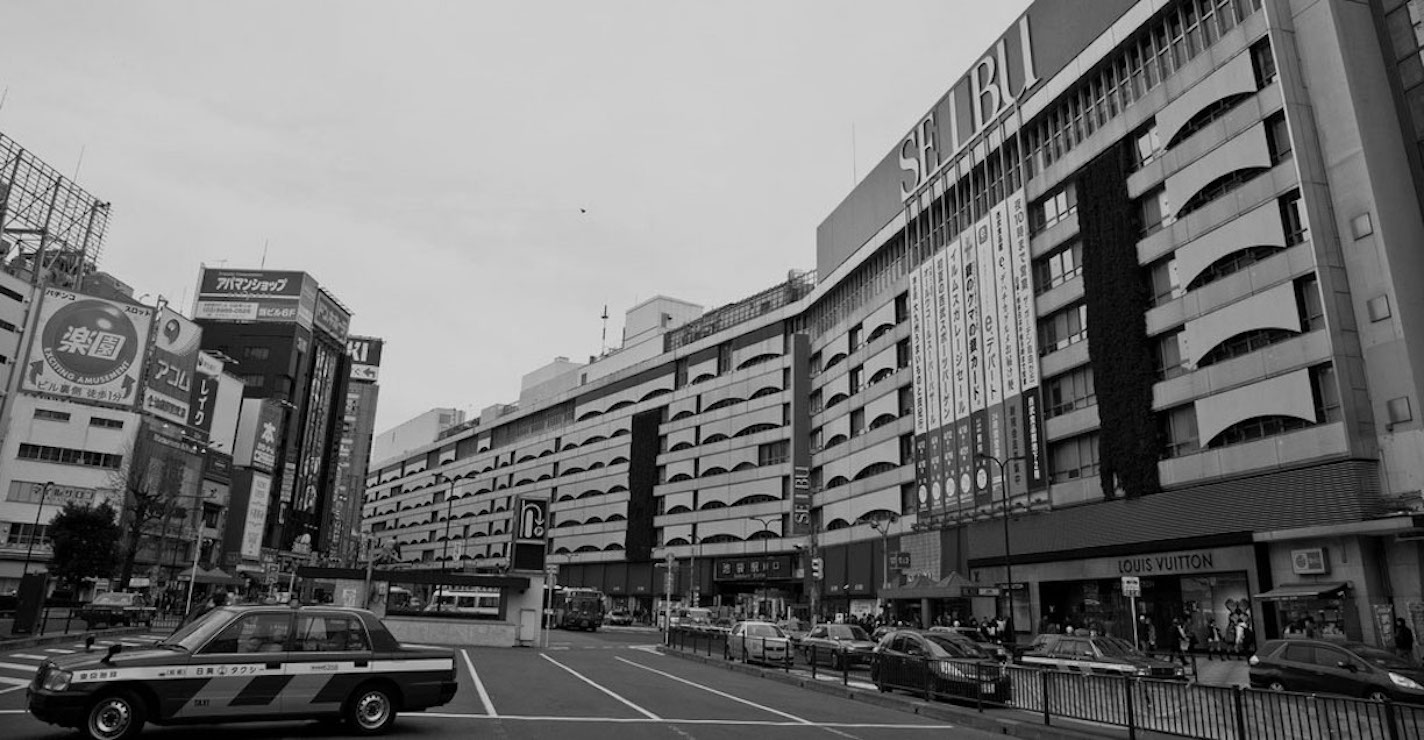
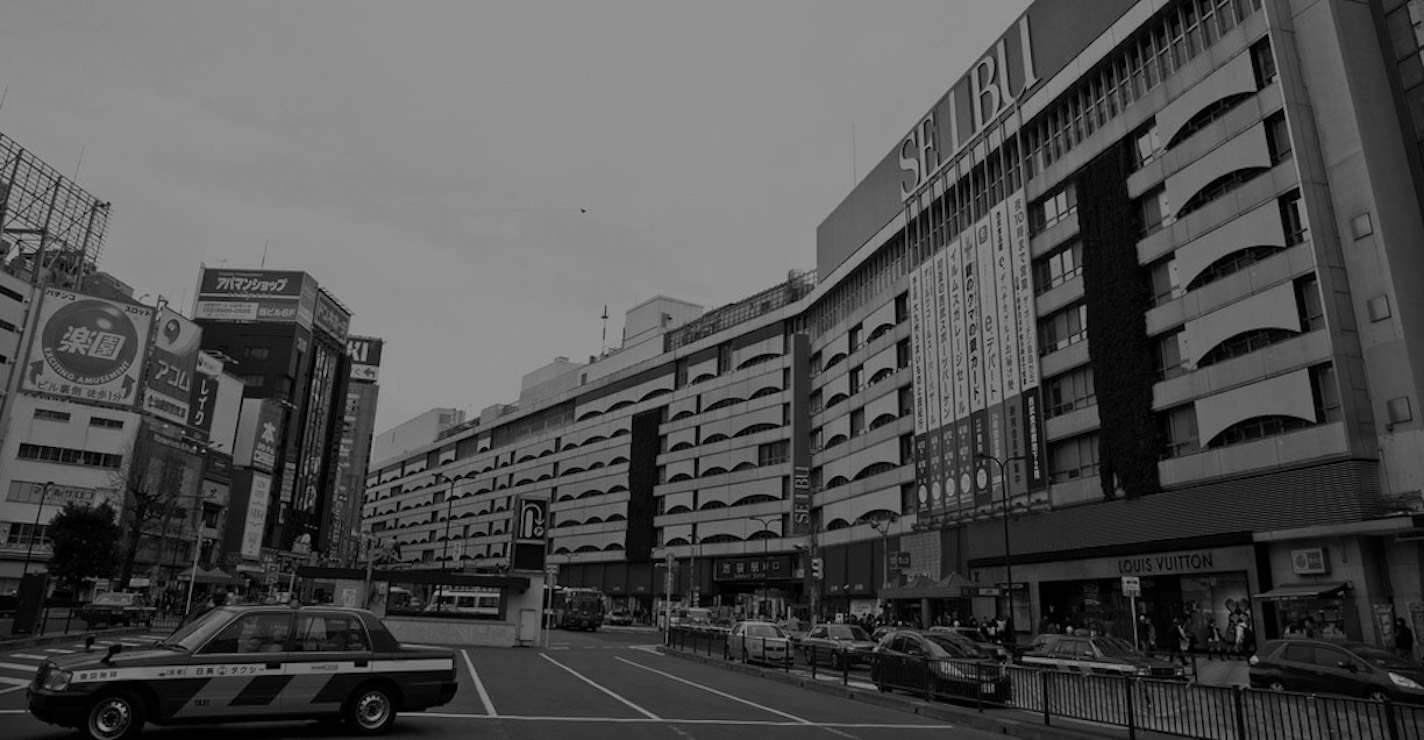
画像明度変更＆Philosophyのリンク設置

diff --git a/index.html b/index.html
@@ -953,7 +953,7 @@ function scroll_disabled(){
                         【ライブエスト（LIVE EST）】という社名は、「LIVE（生きている）」と「EST（最上級表現の-est）」を組み合わせ、【最高に生きている＝最高に人生を楽しんでいる】という意味を込めています。<br>
                         <br>
                         なぜ動詞の「LIVE/リブ」ではなく「LIVE/ライブ」なのかといいますと、音楽で使われるような「LIVE/ライブ」にすることで、一層生き生きとした表現になり【今】や【一瞬】を大事にする弊社にとって最高に適した言葉だと思ったからです。<br>
-                        ※詳細は是非とも【Philosophy】をご覧下さい
+                        ※詳細は是非とも【<a href="#vision" id="scroll">Philosophy</a>】をご覧下さい
                     </p>
                 </div>
                 <div class="col-md-4">
